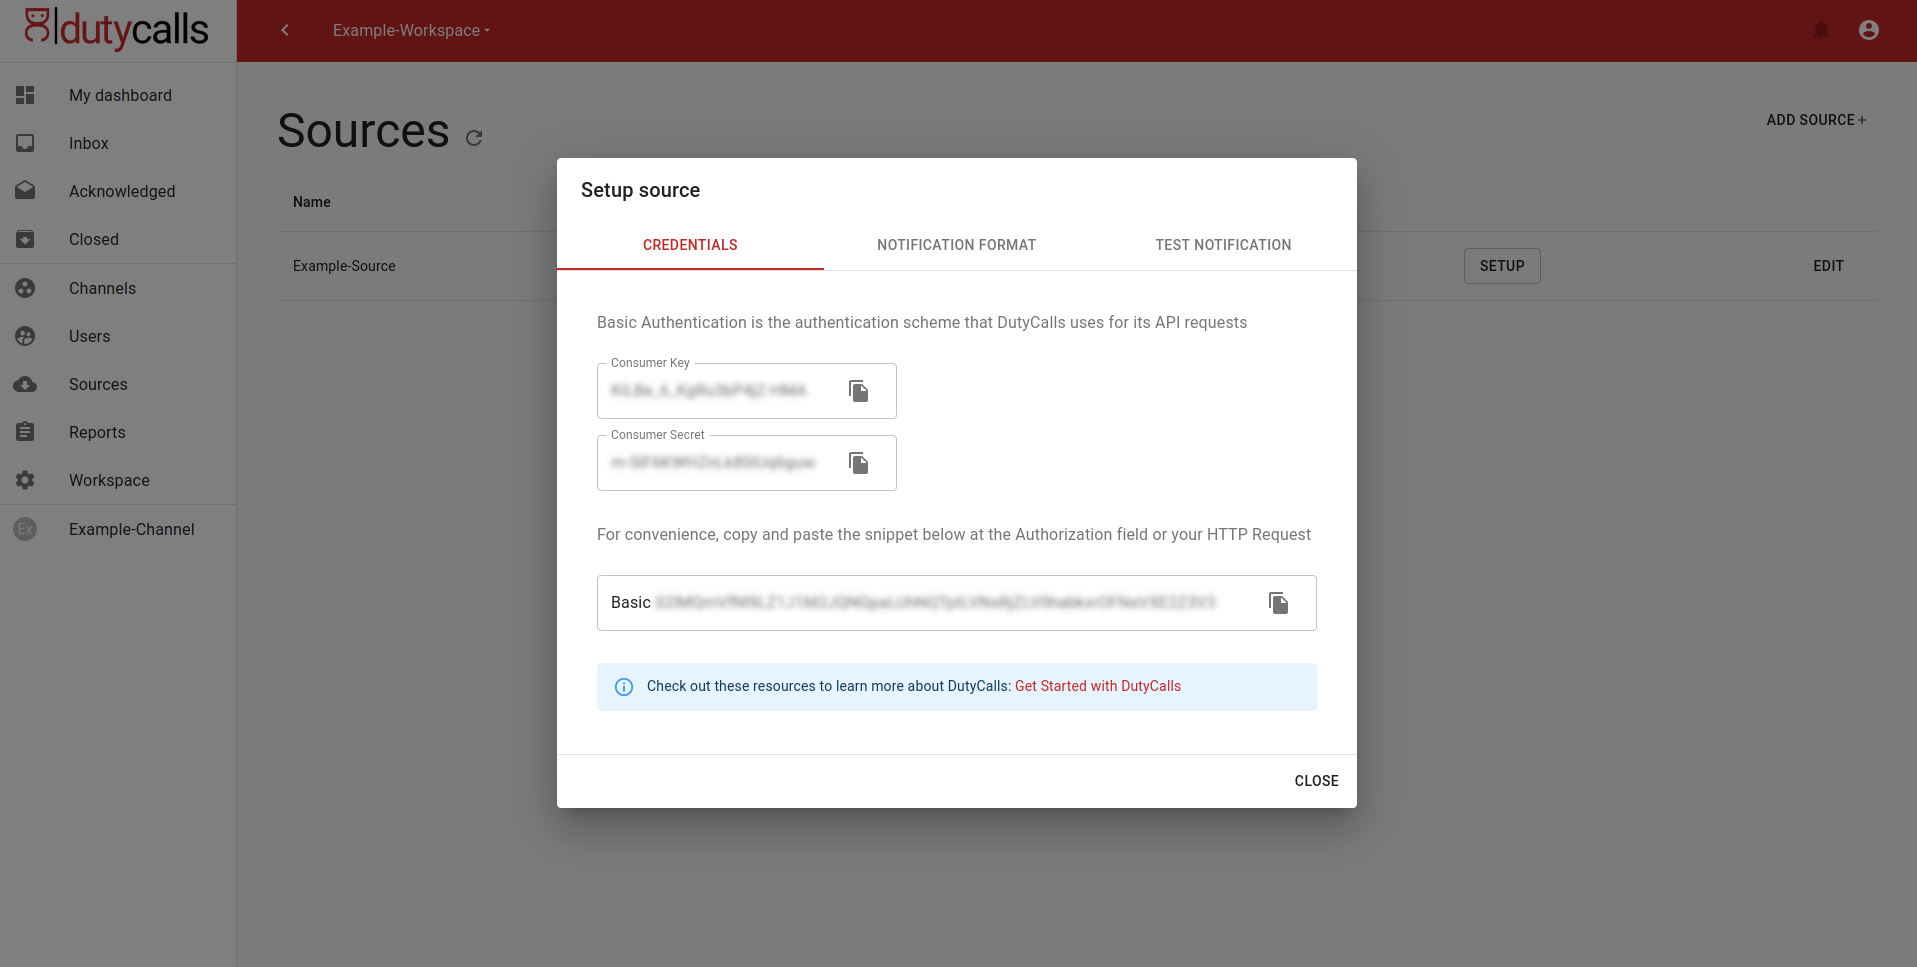
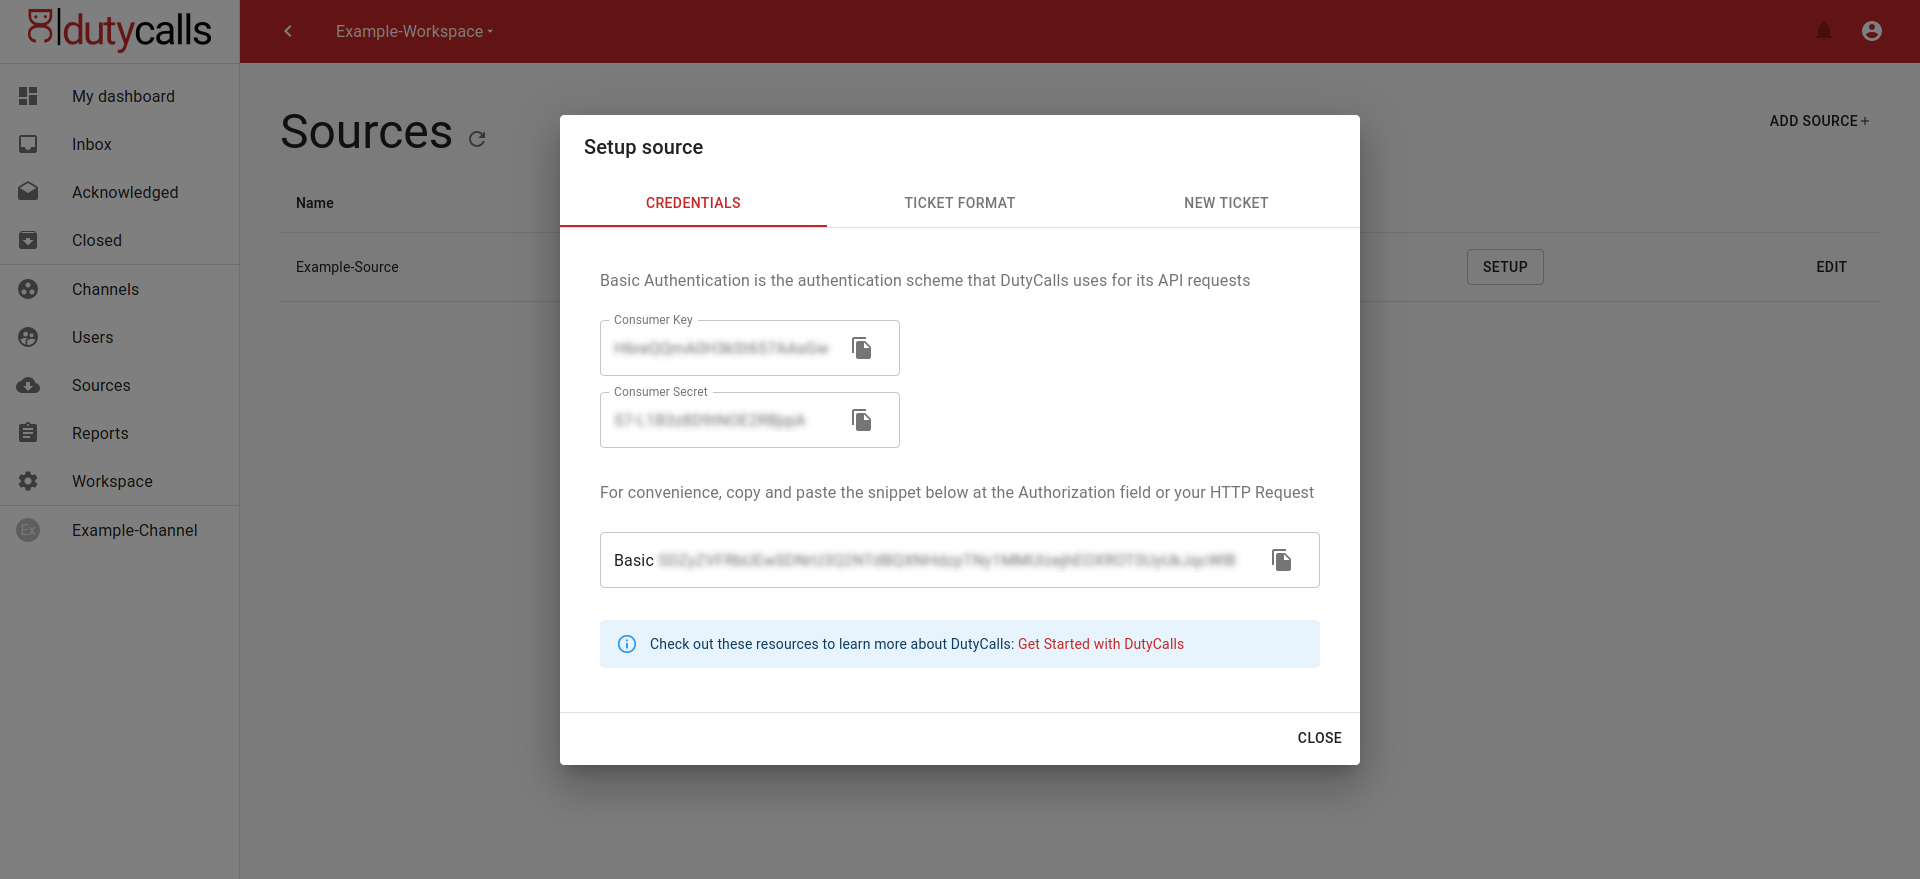
Deployed db43d86 with MkDocs version: 1.1.2

diff --git a/getting-started/index.html b/getting-started/index.html
@@ -265,8 +265,8 @@
 </li>
       
         <li class="md-nav__item">
-  <a href="#step-4-send-a-test-notification" class="md-nav__link">
-    Step 4 - Send a test notification
+  <a href="#step-4-create-a-new-ticket" class="md-nav__link">
+    Step 4 - Create a new ticket
   </a>
   
 </li>
@@ -390,8 +390,8 @@
 </li>
       
         <li class="md-nav__item">
-  <a href="#step-4-send-a-test-notification" class="md-nav__link">
-    Step 4 - Send a test notification
+  <a href="#step-4-create-a-new-ticket" class="md-nav__link">
+    Step 4 - Create a new ticket
   </a>
   
 </li>
@@ -421,7 +421,7 @@
                 
                 <h1 id="getting-started">Getting started</h1>
 <h2 id="overview">Overview</h2>
-<p>To start making use of our great product there are a few things that need to be done before any notification can be received by DutyCalls. These things are thoroughly described in the following steps.</p>
+<p>To start making use of our great product there are a few things that need to be done before any ticket can be received by DutyCalls. These things are thoroughly described in the following steps.</p>
 <h2 id="step-1-create-a-workspace">Step 1 - Create a workspace</h2>
 <h3 id="what-is-a-workspace">What is a workspace?</h3>
 <p>A workspace is a place where everything is done. As a user you have to be a member of a workspace to make use of the functionalities of DutyCalls. A workspace often represents a company or department. There are two ways of joining a workspace. You can get invited to one and you can create one yourself.</p>
@@ -432,37 +432,37 @@
 <h2 id="step-2-add-a-source">Step 2 - Add a source</h2>
 <p>After you have signed in to your workspace, you have to add a source.</p>
 <h3 id="what-is-a-source">What is a source?</h3>
-<p>A source is literally the source from where you receive notifications. It is probably the system that you want to connect to DutyCalls. You do not actually have to connect your system to DutyCalls, as it uses a REST API. But you must indicate what you are going to send. Notifications can be sent in any format and DutyCalls needs to now how it should interpret these notifications. So a source is actually a mapping between DutyCalls and another system.</p>
+<p>A source is literally the source from where you receive tickets. It is probably the system that you want to connect to DutyCalls. You do not actually have to connect your system to DutyCalls, as it uses a REST API. But you must indicate what you are going to post. Tickets can be posted in any format and DutyCalls needs to now how it should interpret these tickets. So a source is actually a mapping between DutyCalls and another system.</p>
 <p>To add a source you have to go to the sources page, click here on the <strong>Add source</strong> button.</p>
 <p><img alt="image - Add a source - Step 1" src="../images/add-source-1.png" /></p>
-<p>Here you will be asked for a name and optionally for a sample of a notification. This depends on whether you want to send notifications with a custom format or not.</p>
+<p>Here you will be asked for a name and optionally for a sample of a ticket. This depends on whether you want to post tickets with a custom format or not.</p>
 <p><img alt="image - Add a source - Step 2" src="../images/add-source-2.png" /></p>
-<p>A sample is just an example of a notification (must be valid JSON) from the system that you want to connect to DutyCalls. After pasting it, you can map all or your keys / values to the corresponding properties of a notification within DutyCalls. Lastly, click on the <strong>Add</strong> button and the source will be added to your workspace.</p>
+<p>A sample is just an example of a ticket (must be valid JSON) from the system that you want to connect to DutyCalls. After pasting it, you can map all or your keys / values to the corresponding properties of a ticket within DutyCalls. Lastly, click on the <strong>Add</strong> button and the source will be added to your workspace.</p>
 <p><img alt="image - Add a source - Step 3" src="../images/add-source-3.png" /></p>
-<p>As a result, DutyCalls knows how to use and display your notification. When defining a custom format, it is not mandatory to override all properties of a notification. It may of course be possible that, for example, you do not have to show a link in a notification or no severity is included in a notification. There are, however, two mandatory properties. These are: <code>title</code> and <code>body</code>.</p>
+<p>As a result, DutyCalls knows how to use and display your ticket. When defining a custom format, it is not mandatory to override all properties of a ticket. It may of course be possible that, for example, you do not have to show a link in a ticket or no severity is included in a ticket. There are, however, two mandatory properties. These are: <code>title</code> and <code>body</code>.</p>
 <h2 id="step-3-add-a-channel">Step 3 - Add a channel</h2>
 <p>The next logical step is to add a channel.</p>
 <h3 id="what-is-a-channel">What is a channel?</h3>
-<p>A channel can be seen as a path a notification follows after being sent. All of the notifications from all of the sources that provide the same <code>channelName</code> will gather here. When sending a notification to DutyCalls, it is mandatory to provide the name of at least one channel. Users will be able to subscribe to these channels, which ensures that they will receive these notifications.</p>
+<p>A channel can be seen as a path a ticket follows after being sent. All of the tickets from all of the sources that provide the same <code>channelName</code> will gather here. When posting a ticket to DutyCalls, it is mandatory to provide the name of at least one channel. Users will be able to subscribe to these channels, which ensures that they will receive these tickets.</p>
 <p>To add a channel. Go to the channels page and click on the <strong>Add channel</strong> button.</p>
 <p><img alt="image - Add a channel - Step 1" src="../images/add-channel-1.png" /></p>
 <p>You will have to fill in the following information:</p>
 <ul>
 <li>Name: The name of the new channel.</li>
 <li>Manager: A manager is ultimately responsible person within a channel and will, among other things, receive warnings when something is wrong within a channel. Every user within a workspace can be designated as a manager of a channel.</li>
-<li>Source: By selecting the source, the channel knows from which source it must receive notifications.</li>
+<li>Source: By selecting the source, the channel knows from which source it must receive tickets.</li>
 <li>Minimum subscribers: A minimum number of subscribers have to be defined. If this minimum is not reached, a warning will be raised.</li>
-<li>Schedules: Schedules or rather 'ignore schedules' are used to indicate when you do not want the channel to receive notifications. This does not have to be done immediately and can always be added / adjusted at a later stage. (optional)</li>
+<li>Schedules: Schedules or rather 'ignore schedules' are used to indicate when you do not want the channel to receive tickets. This does not have to be done immediately and can always be added / adjusted at a later stage. (optional)</li>
 </ul>
 <p>Now click on the <strong>Add</strong> button and the new channel will be added to your workspace.</p>
 <p><img alt="image - Add a channel - Step 2" src="../images/add-channel-2.png" /></p>
-<h2 id="step-4-send-a-test-notification">Step 4 - Send a test notification</h2>
+<h2 id="step-4-create-a-new-ticket">Step 4 - Create a new ticket</h2>
 <p>To check if everything is set up properly, go back to the sources page and click on the <strong>Setup</strong> button of the source that you have just added.
-A dialog now shows up. Click on the second tab called <strong>Test Notification</strong> and you are ready to send a test notification. Just fill in the required fields
-and click on the <strong>Send</strong> button. If all is well, you should now see a notification in the inbox.</p>
-<p><img alt="image - Send test notification" src="../images/setup-source-dialog-2.png" /></p>
+A dialog now shows up. Click on the second tab called <strong>New Ticket</strong> and you are ready to create a new ticket. Just fill in the required fields
+and click on the <strong>Create</strong> button. If all is well, you should now see a ticket in the inbox.</p>
+<p><img alt="image - Create new ticket" src="../images/setup-source-dialog-2.png" /></p>
 <blockquote>
-<p>Note: The <code>title</code> of a notification could be part of push notifications, emails, text messages being send by DutyCalls, which will be truncated when being too long. If you want to make sure that notification titles are displayed correctly, stick to a maximum of <code>50</code> characters.  </p>
+<p>Note: The <code>title</code> of a ticket could be part of push notifications, emails, text messages being send by DutyCalls, which will be truncated when being too long. If you want to make sure that ticket titles are displayed correctly, stick to a maximum of <code>50</code> characters.  </p>
 </blockquote>
 <h2 id="where-to-next">Where to next?</h2>
 <p>Now that you have set up your workspace, you might want to check out these resources.</p>

diff --git a/index.html b/index.html
@@ -222,7 +222,7 @@
                 
                 
                 <h1 id="welcome-to-dutycalls">Welcome to DutyCalls</h1>
-<p>DutyCalls is a notification routing tool made to make notifications more visible to its audience. Many organizations struggle with the fact that notifications are not viewed on time or not viewed at all by their target audience. This can lead to unforeseen circumstances. DutyCalls is here to solve that problem. DutyCalls has a mobile and web application to stay up to date on the latest notifications in a very user-friendly and intuitive way. In addition, integrating your system with DutyCalls has never been easier. For more information about our product, please go to <strong><a href="https://dutycalls.me">dutycalls.me</a></strong>.</p>
+<p>DutyCalls is a notification routing tool made to make events more visible to its audience. Many organizations struggle with the fact that events are not seen on time or not seen at all by their target audience. This can lead to unforeseen circumstances. DutyCalls is here to solve that problem. DutyCalls has a mobile and web application to stay up to date on the latest events in a very user-friendly and intuitive way. In addition, integrating your system with DutyCalls has never been easier. For more information about our product, please go to <strong><a href="https://dutycalls.me">dutycalls.me</a></strong>.</p>
 <p>In this documentation the following things are described:</p>
 <ul>
 <li>How to <a href="getting-started/">get started</a>?</li>

diff --git a/rest-api/index.html b/rest-api/index.html
@@ -331,13 +331,13 @@
 </blockquote>
 <h2 id="example">Example</h2>
 <p>In addition to the credentials and the data itself, the name or names of the targeted channels must also be included in the HTTP request. These can be added as the value of the query parameter <code>channel</code> in the URI of the request. An example of this can be seen below.</p>
-<pre><code class="curl">curl -X POST &quot;https://dutycalls.me/api/notification?channel=$CHANNEL_NAME&quot;
+<pre><code class="curl">curl -X POST &quot;https://dutycalls.me/api/ticket?channel=$CHANNEL_NAME&quot;
     -H  &quot;accept: application/json&quot;
         -H  &quot;Content-Type: application/json&quot;
             -H &quot;Authorization: Basic $CREDENTIALS&quot;
                 -d {
-                        &quot;title&quot;: &quot;This is the title of the notification&quot;,
-                        &quot;body&quot;: &quot;This is the body of the notification&quot;,
+                        &quot;title&quot;: &quot;This is the title of the ticket&quot;,
+                        &quot;body&quot;: &quot;This is the body of the ticket&quot;,
                         &quot;severity&quot;: &quot;medium&quot;
                     }
 </code></pre>
